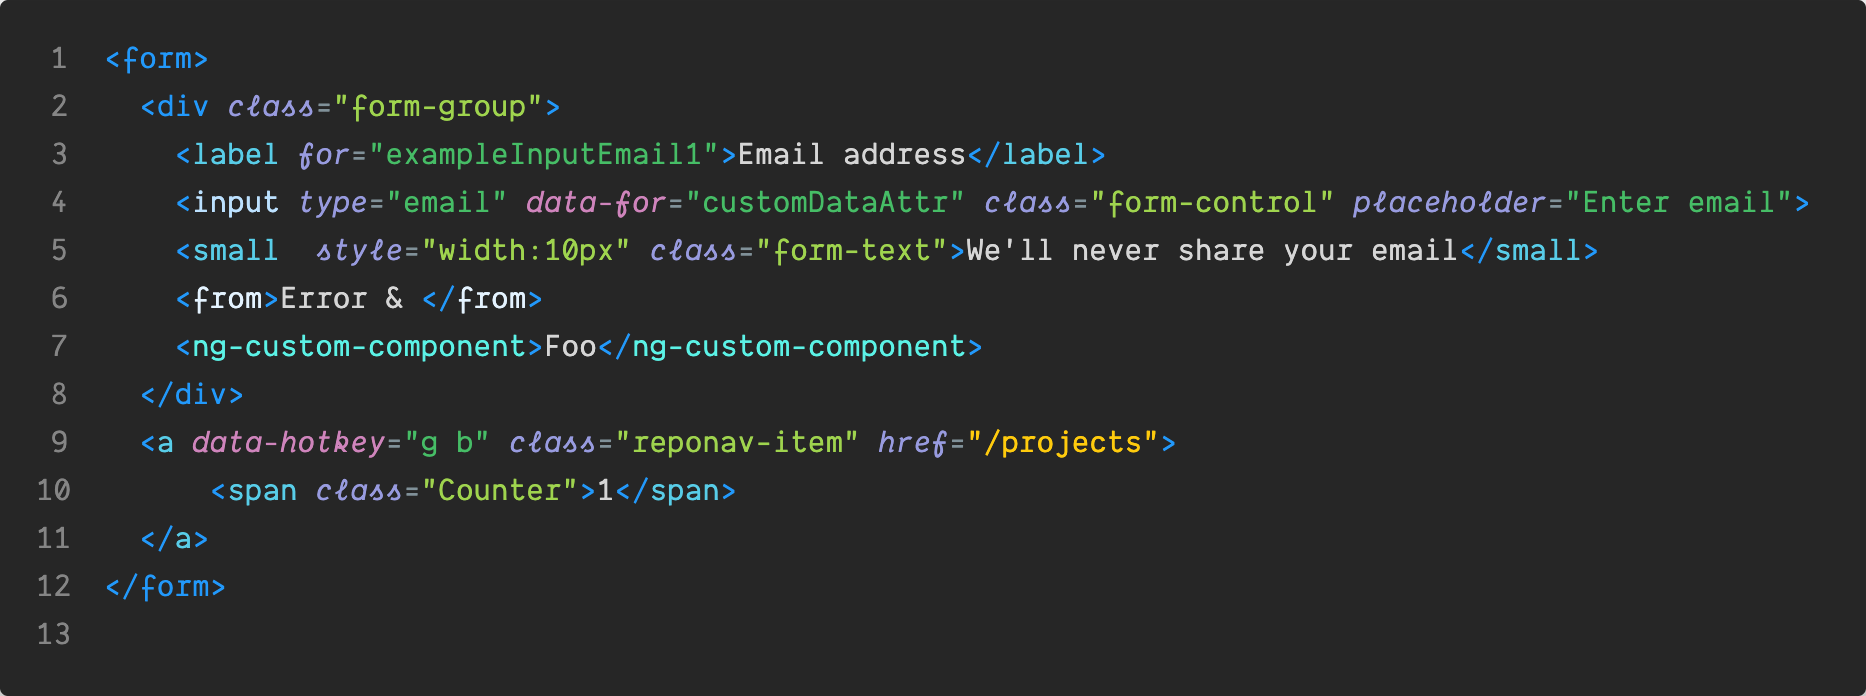
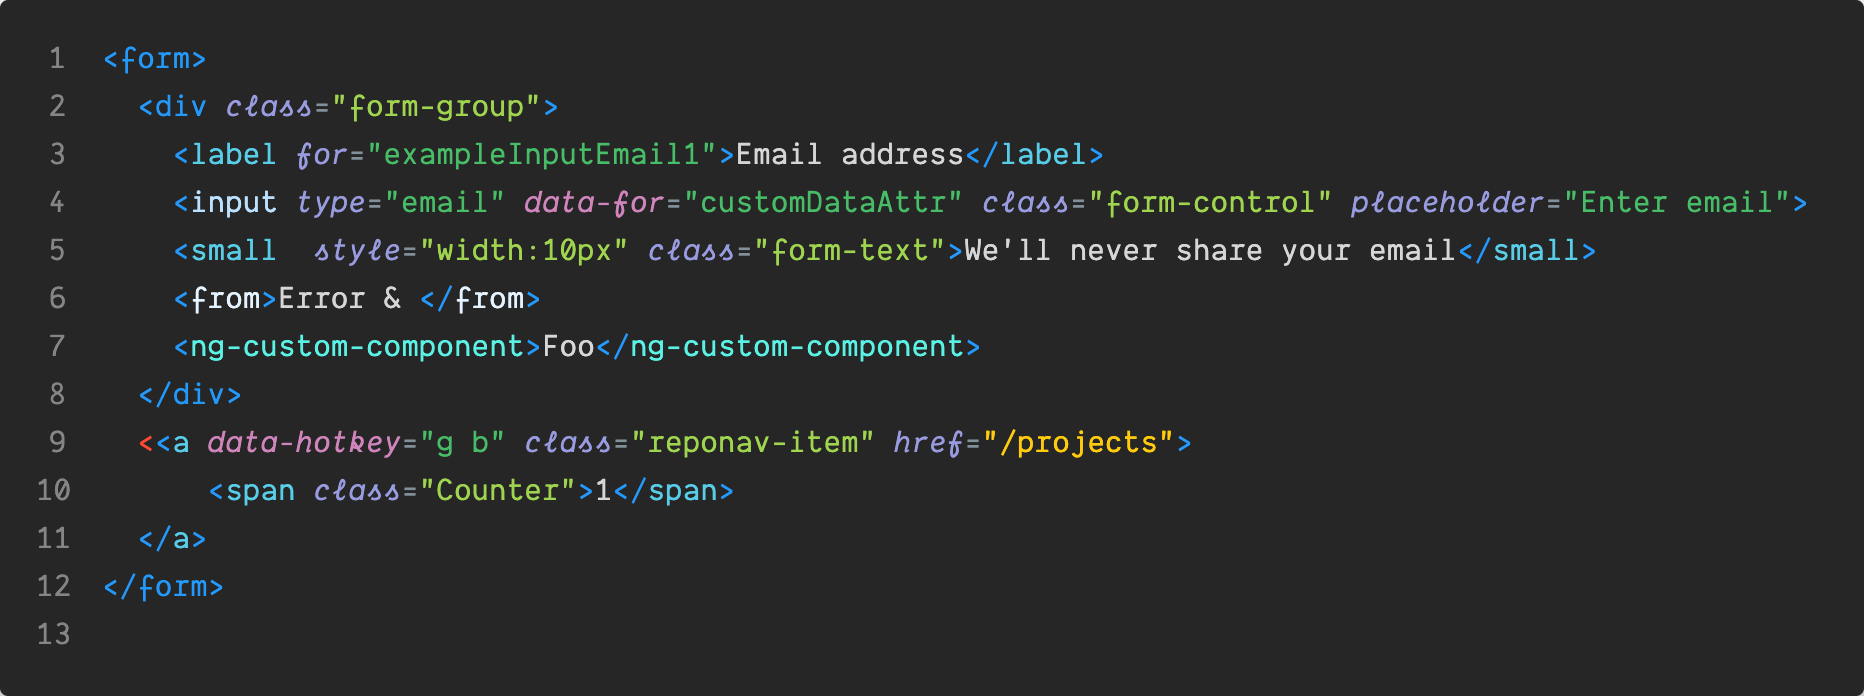
typo fix

diff --git a/demo/screenshottable/html.html b/demo/screenshottable/html.html
@@ -6,7 +6,7 @@
     <from>Error & </from>
     <ng-custom-component>Foo</ng-custom-component>
   </div>
-  <a data-hotkey="g b" class="reponav-item" href="/projects">
+  <<a data-hotkey="g b" class="reponav-item" href="/projects">
       <span class="Counter">1</span>
   </a>
 </form>

diff --git a/README.md b/README.md
@@ -23,9 +23,10 @@ The colors for programming languages are designed to ease congnitive parsing of 
 - `=` is assigned a contrasting color to `==` so you can immediately catch if typo one for the other.
 
 ![Screenshot](screenshots/js.png)
+
 ![Screenshot](screenshots/ts.png)
 
-These rules should apply to most languages but were specifically designed for JS/Typescript. If something looks in a specific language, issues/ PRs are welcome.
+These rules should apply to most languages but were specifically designed for JS/Typescript. If something looks off in a particular language, issues/ PRs are welcome.
 
 ## HTML
 
@@ -34,7 +35,7 @@ These rules should apply to most languages but were specifically designed for JS
 - `href`, form `action` attribute values, and inline event handlers  are treated as action triggers and assigned brighter 'warm' colors.
 - `data-` attributes are highlighted.
 - Un-recognized tags show up brightly. Lifesaver if you chronically mistype 'form' as 'from' as I do.
-- Errors, like say an extra angled `<` before a div are highlighted in red, as you can quickly see/scan from the screenshot.
+- Errors, like say an extra angled `<` before an element are highlighted in red, as you can quickly see/scan from the screenshot.
 
 ![Screenshot](screenshots/html.png)
 
@@ -104,4 +105,5 @@ Add the following to your VS Code settings:
 
 ## Other misc. screenshots
 ![Screenshot](screenshots/python.png)
+
 ![Screenshot](screenshots/php.png)
